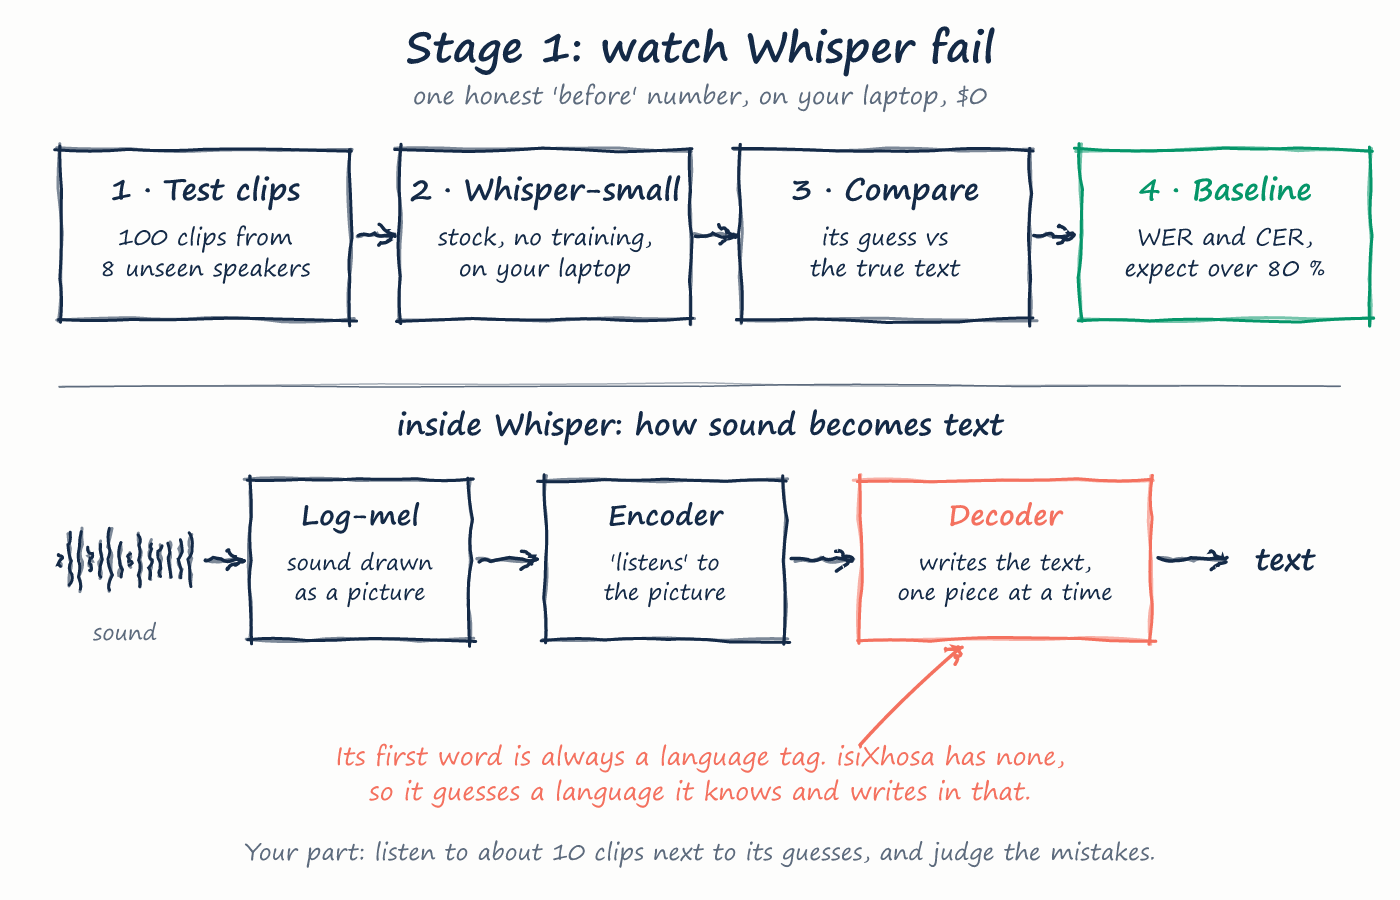
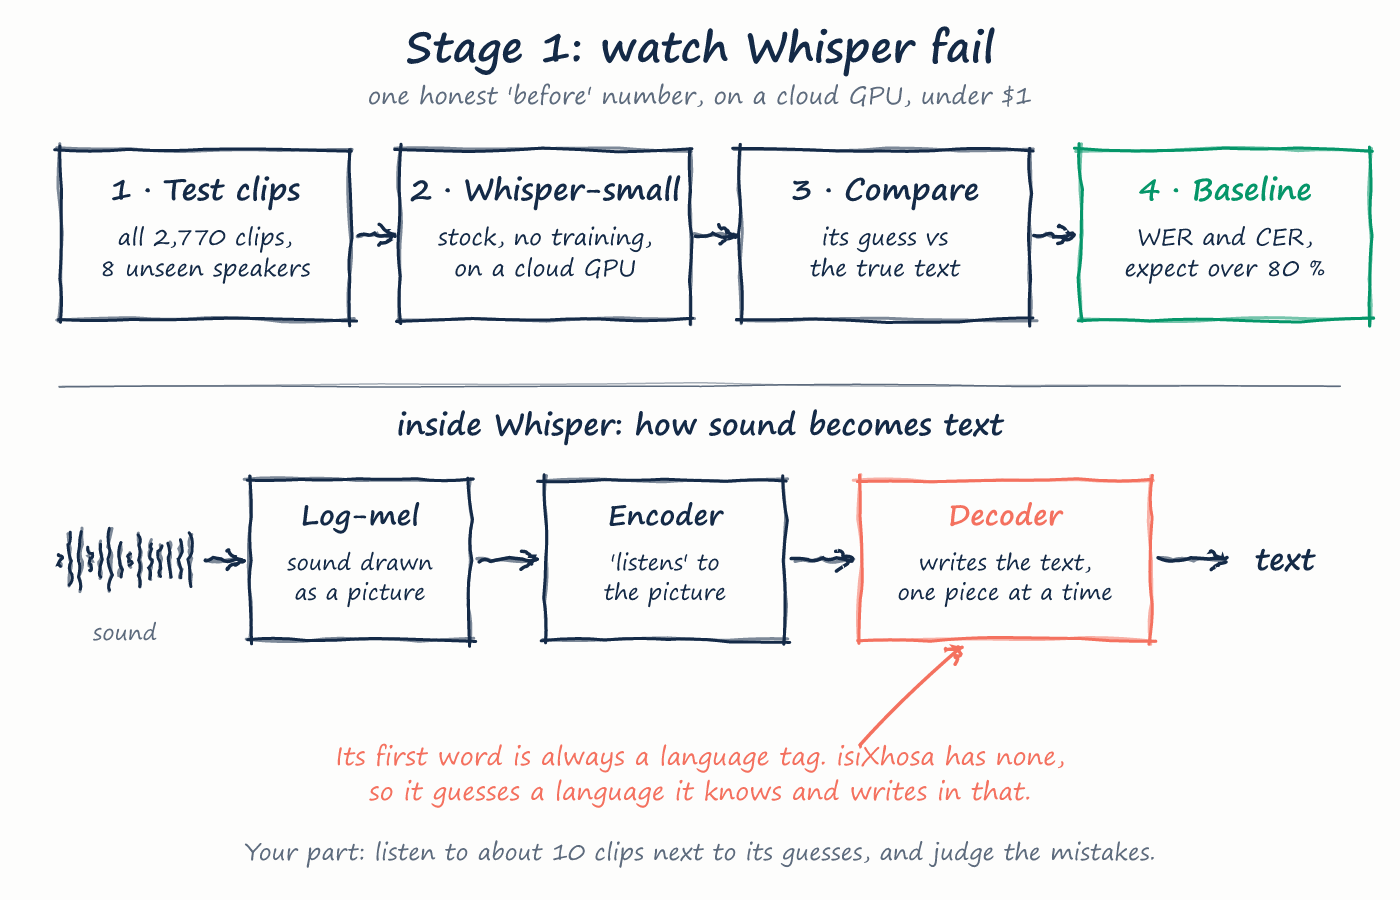
Stage 1 baseline code, GPU job launcher, R-0001 run folder (D-0006)

Changed region(s): [[0.2764, 0.0933, 0.7371, 0.1244], [0.3071, 0.28, 0.4607, 0.3111], [0.0921, 0.2489, 0.215, 0.28]]

diff --git a/docs/make_stage1.js b/docs/make_stage1.js
@@ -2,12 +2,12 @@ const { Sketch, render, COLORS } = require("C:/Users/ntlak/.claude/skills/hand-d
 const { NAVY, CORAL, MUTED, EMERALD } = COLORS;
 const sk = new Sketch(1400, 900, 21);
 sk.text(700, 62, "Stage 1: watch Whisper fail", { size: 42, weight: "bold" });
-sk.text(700, 104, "one honest 'before' number, on your laptop, $0", { size: 24, color: MUTED });
+sk.text(700, 104, "one honest 'before' number, on a cloud GPU, under $1", { size: 24, color: MUTED });
 
 // row 1: what we do
 const steps = [
-  ["Test clips", ["100 clips from", "8 unseen speakers"], NAVY],
-  ["Whisper-small", ["stock, no training,", "on your laptop"], NAVY],
+  ["Test clips", ["all 2,770 clips,", "8 unseen speakers"], NAVY],
+  ["Whisper-small", ["stock, no training,", "on a cloud GPU"], NAVY],
   ["Compare", ["its guess vs", "the true text"], NAVY],
   ["Baseline", ["WER and CER,", "expect over 80 %"], EMERALD],
 ];

diff --git a/src/baseline.py b/src/baseline.py
@@ -1,0 +1,154 @@
+"""Stage 1: score a stock (untrained-on-isiXhosa) Whisper model on the NCHLT test set.
+
+  python src/baseline.py --xml data/nchlt_xho/transcriptions/nchlt_xho.tst.xml --root data --out out \
+      --model openai/whisper-small --language auto
+
+--language auto lets Whisper pick a language per clip (it has no isiXhosa tag) and records which one it picked.
+--dry-run skips the model and uses the reference text as the "guess" (should score 0 %), to test the plumbing.
+Writes to --out: predictions.jsonl, metrics.json, samples.md.
+"""
+import argparse
+import collections
+import json
+import os
+import platform
+import random
+import sys
+import time
+
+sys.path.insert(0, os.path.dirname(__file__))
+from nchlt import load_split  # noqa: E402
+from scoring import NORMALISATION, normalise, score  # noqa: E402
+
+
+def whisper_transcriber(model_name, language, batch_size):
+    import numpy as np
+    import soundfile as sf
+    import torch
+    import torchaudio
+    from transformers import WhisperForConditionalGeneration, WhisperProcessor
+
+    device = "cuda" if torch.cuda.is_available() else "cpu"
+    dtype = torch.float16 if device == "cuda" else torch.float32
+    proc = WhisperProcessor.from_pretrained(model_name)
+    model = WhisperForConditionalGeneration.from_pretrained(model_name, torch_dtype=dtype).to(device).eval()
+
+    def load(path):
+        audio, sr = sf.read(path, dtype="float32")
+        if audio.ndim > 1:
+            audio = audio.mean(axis=1)
+        if sr != 16000:
+            audio = torchaudio.functional.resample(torch.from_numpy(audio), sr, 16000).numpy()
+        return np.ascontiguousarray(audio)
+
+    def transcribe(clips):
+        feats = proc([load(c["path"]) for c in clips], sampling_rate=16000, return_tensors="pt").input_features
+        feats = feats.to(device, dtype)
+        with torch.no_grad():
+            if language == "auto":
+                ids = model.detect_language(input_features=feats)
+                langs = [t.strip("<|>") for t in proc.tokenizer.convert_ids_to_tokens(ids.tolist())]
+            else:
+                langs = [language] * len(clips)
+            out = model.generate(feats, language=langs, task="transcribe", max_new_tokens=96)
+        return proc.batch_decode(out, skip_special_tokens=True), langs
+
+    env = {"torch": torch.__version__, "device": device,
+           "gpu": torch.cuda.get_device_name(0) if device == "cuda" else None}
+    return transcribe, env
+
+
+def main():
+    ap = argparse.ArgumentParser()
+    ap.add_argument("--xml", required=True)
+    ap.add_argument("--root", required=True)
+    ap.add_argument("--out", required=True)
+    ap.add_argument("--model", default="openai/whisper-small")
+    ap.add_argument("--language", default="auto")
+    ap.add_argument("--batch-size", type=int, default=32)
+    ap.add_argument("--limit", type=int, default=0, help="only the first N clips (0 = all)")
+    ap.add_argument("--samples", type=int, default=20)
+    ap.add_argument("--seed", type=int, default=1)
+    ap.add_argument("--dry-run", action="store_true")
+    a = ap.parse_args()
+    os.makedirs(a.out, exist_ok=True)
+
+    clips = load_split(a.xml, a.root)
+    if a.limit:
+        clips = clips[: a.limit]
+    print(f"{len(clips)} clips, {sum(c['duration'] for c in clips) / 3600:.2f} h, "
+          f"{len({c['speaker'] for c in clips})} speakers", flush=True)
+
+    if a.dry_run:
+        transcribe, env = (lambda b: ([c["text"] for c in b], ["dry"] * len(b))), {"device": "none"}
+    else:
+        transcribe, env = whisper_transcriber(a.model, a.language, a.batch_size)
+
+    order = sorted(range(len(clips)), key=lambda i: clips[i]["duration"])  # similar lengths batch well
+    t0 = time.time()
+    for k in range(0, len(order), a.batch_size):
+        batch = [clips[i] for i in order[k: k + a.batch_size]]
+        hyps, langs = transcribe(batch)
+        for c, h, l in zip(batch, hyps, langs):
+            c["hyp"], c["lang"] = h.strip(), l
+        if (k // a.batch_size) % 10 == 0:
+            print(f"  {k + len(batch)}/{len(clips)} clips, {time.time() - t0:.0f} s", flush=True)
+    secs = time.time() - t0
+
+    for c in clips:
+        s = score([c["text"]], [c["hyp"]])
+        c["wer"], c["cer"] = round(s["wer"], 1), round(s["cer"], 1)
+        c["exact"] = normalise(c["text"]) == normalise(c["hyp"])
+    with open(os.path.join(a.out, "predictions.jsonl"), "w", encoding="utf-8") as f:
+        for c in clips:
+            f.write(json.dumps({k: v for k, v in c.items() if k != "path"}, ensure_ascii=False) + "\n")
+
+    def group(key):
+        out = {}
+        for g in sorted({c[key] for c in clips}):
+            sub = [c for c in clips if c[key] == g]
+            s = score([c["text"] for c in sub], [c["hyp"] for c in sub])
+            out[g] = {"wer": round(s["wer"], 1), "cer": round(s["cer"], 1), "n": s["n"]}
+        return out
+
+    total = score([c["text"] for c in clips], [c["hyp"] for c in clips])
+    if not a.dry_run:
+        import transformers
+        env["transformers"] = transformers.__version__
+    metrics = {
+        "model": a.model, "language": a.language, "test_set": os.path.basename(a.xml),
+        "clips": len(clips), "audio_hours": round(sum(c["duration"] for c in clips) / 3600, 3),
+        "wer": round(total["wer"], 2), "cer": round(total["cer"], 2),
+        "exact_match_pct": round(100 * sum(c["exact"] for c in clips) / len(clips), 2),
+        "empty_output_pct": round(100 * sum(not normalise(c["hyp"]) for c in clips) / len(clips), 2),
+        "detected_languages": dict(collections.Counter(c["lang"] for c in clips).most_common()),
+        "per_speaker": group("speaker"), "per_gender": group("gender"),
+        "normalisation": NORMALISATION, "seconds": round(secs, 1), "batch_size": a.batch_size,
+        "env": {**env, "python": platform.python_version()},
+    }
+    with open(os.path.join(a.out, "metrics.json"), "w", encoding="utf-8") as f:
+        json.dump(metrics, f, indent=2, ensure_ascii=False)
+
+    # samples: a fixed, seeded pick spread over the speakers, so the founder can listen and judge
+    rng = random.Random(a.seed)
+    by_spk = collections.defaultdict(list)
+    for c in clips:
+        by_spk[c["speaker"]].append(c)
+    picks = []
+    while len(picks) < min(a.samples, len(clips)):
+        for spk in sorted(by_spk):
+            pool = [c for c in by_spk[spk] if c not in picks]
+            if pool and len(picks) < a.samples:
+                picks.append(rng.choice(pool))
+    with open(os.path.join(a.out, "samples.md"), "w", encoding="utf-8") as f:
+        f.write(f"# Samples: {a.model}, language={a.language}\n\n")
+        f.write("| clip | speaker | Whisper's language | reference (NCHLT) | Whisper's output | WER % | CER % |\n")
+        f.write("|---|---|---|---|---|---|---|\n")
+        for c in picks:
+            f.write(f"| {c['id']} | {c['speaker']} {c['gender'][0]} | {c['lang']} | {c['text']} | "
+                    f"{c['hyp'].replace('|', '/')} | {c['wer']} | {c['cer']} |\n")
+    print(json.dumps({k: metrics[k] for k in ("wer", "cer", "exact_match_pct", "detected_languages", "seconds")}))
+
+
+if __name__ == "__main__":
+    main()

diff --git a/src/scoring.py b/src/scoring.py
@@ -1,0 +1,27 @@
+"""Text normalisation and WER/CER, shared by every run so scores stay comparable.
+
+Normalisation is deliberately light: lowercase, drop punctuation, collapse spaces. It does not touch spelling,
+so a wrong click letter (c/q/x) or a wrongly split word still counts as an error.
+"""
+import re
+import unicodedata
+
+import jiwer
+
+NORMALISATION = ("v1: drop [bracketed] tags (NCHLT's [s] non-speech marker), NFC, lowercase, "
+                 "punctuation -> space (apostrophes kept), collapse whitespace")
+
+
+def normalise(text):
+    text = re.sub(r"\[[^\]]*\]", " ", text)  # NCHLT marks non-speech events like [s]; they are not words
+    text = unicodedata.normalize("NFC", text).lower()
+    text = re.sub(r"[^\w\s']", " ", text)  # \w keeps letters in any script, digits and _
+    text = text.replace("_", " ")
+    return re.sub(r"\s+", " ", text).strip()
+
+
+def score(refs, hyps):
+    """Corpus-level WER and CER in percent (errors summed over all clips, divided by total reference words/letters)."""
+    refs = [normalise(r) for r in refs]
+    hyps = [normalise(h) for h in hyps]
+    return {"wer": 100 * jiwer.wer(refs, hyps), "cer": 100 * jiwer.cer(refs, hyps), "n": len(refs)}

diff --git a/src/nchlt.py b/src/nchlt.py
@@ -1,0 +1,20 @@
+"""Read the NCHLT corpus transcription XML (nchlt_xho.trn.xml / nchlt_xho.tst.xml) into a list of clips."""
+import os
+import xml.etree.ElementTree as ET
+
+
+def load_split(xml_path, root):
+    """One dict per recording: id, speaker, gender, path (under root), duration (s), text (the orth line)."""
+    clips = []
+    for spk in ET.parse(xml_path).getroot().iter("speaker"):
+        for rec in spk.iter("recording"):
+            audio = rec.get("audio")
+            clips.append({
+                "id": os.path.splitext(os.path.basename(audio))[0],
+                "speaker": spk.get("id"),
+                "gender": spk.get("gender"),
+                "path": os.path.join(root, audio),
+                "duration": float(rec.get("duration")),
+                "text": (rec.findtext("orth") or "").strip(),
+            })
+    return clips

diff --git a/decisions.md b/decisions.md
@@ -42,3 +42,11 @@ Format:
 - Decision: the founder accepts the CC BY 3.0 terms: credit CSIR Meraka Institute and North-West University (via SADiLaR)
   in the model card and write-up, no implied endorsement, never re-upload the raw audio.
 - Why: required before downloading; founder's own acceptance per AGENTS.md.
+
+## D-0006 · 2026-10-16 · Where and how to run the stage 1 baseline
+- Options: A) laptop, 100 test clips (original plan) / B) cloud GPU, full NCHLT test set (2 770 clips)
+- Recommendation: B. Data is already in S3 (D-0004), the full test set gives a more trustworthy number than 100 clips,
+  and it rehearses the GPU node setup stage 2 needs. Cost well under $1. Language: let Whisper auto-detect per clip
+  (shows what happens today, and records which language it mistakes isiXhosa for).
+- Decision: B, auto-detect. Founder: "you can do it in the cloud and report results here... I trust you".
+- Why: keep the laptop free; founder will read results on a results page.

diff --git a/runs/R-0001/run.md b/runs/R-0001/run.md
@@ -1,0 +1,10 @@
+# R-0001 · Stage 1 baseline: stock whisper-small on NCHLT isiXhosa test
+
+- **Why:** the "before" number. Whisper has never been taught isiXhosa; every later run is compared to this.
+- **What changes vs previous run:** nothing (first run).
+- **Decision:** D-0006 (run stage 1 in the cloud on the full test set; language auto-detected).
+- **Command:** `cloud/run_job.sh --run R-0001 --max-hours 1` (node runs `runs/R-0001/job.sh`)
+- **Expected:** WER above 80 %; Whisper will label the clips as some other language.
+
+## Outcome
+(filled in after the run)
